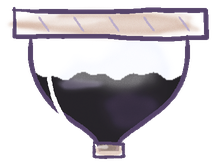
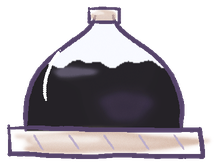
검정 잉크통을 바로 세움: 컬러 잉크통과 같은 모양(이음 고리 위·나무판 받침 아래)에 먹빛 나무, 검정 잉크는 바닥에 고이게. 모래시계에서는 이 병이 뒤집혀 위에 끼워진 것

diff --git a/tools/gen_cutscene.py b/tools/gen_cutscene.py
@@ -303,18 +303,17 @@ def half_bottle(kind):
     모래시계는 검정·컬러 두 잉크통이 목의 이음 고리에서 합쳐진 모습이고, 이야기에서는 따로 찾는다
     (동굴: 컬러, 봉인 장소: 검정). 잘라 쓰지 않고 같은 곡선·나무판·이음 고리로 그 반쪽만 그린다.
     양옆 기둥은 두 병을 이어 주는 틀이라 뺀다.
-    - 컬러: 이음 고리(위) → 둥근 유리 → 넓은 파스텔 나무판(아래), 바닥에 모인 빨강·초록·파랑
-    - 검정: 넓은 먹빛 나무판(위) → 유리 → 이음 고리(아래), 위 칸을 채운 검정 잉크"""
+    두 병은 모양이 같고, 모래시계에서는 검정 병이 거꾸로 뒤집혀 컬러 병 위에 끼워져 있다.
+    따로 놓일 땐 둘 다 바로 선다: 이음 고리(위) → 둥근 유리 → 넓은 나무판 받침(아래).
+    - 컬러: 파스텔 나무, 바닥에 모인 빨강·초록·파랑
+    - 검정: 먹빛 나무, 바닥에 고인 검정 잉크 (모래시계에서 나무판 쪽에 차 있던 그 잉크)"""
     bw, bh = 240, 320
     cx = bw / 2
     sh = Sheet(bw, bh, seed=41)
     sh.line = PLUM
     top, bottom = 46, 274
     neck = (top + bottom) / 2
-    if kind == 'black':
-        half = bezier((cx - 78, top), (cx - 86, top + 80), (cx - 14, neck - 30), (cx - 9, neck), 40)
-    else:
-        half = bezier((cx - 9, neck), (cx - 14, neck + 30), (cx - 86, bottom - 80), (cx - 78, bottom), 40)
+    half = bezier((cx - 9, neck), (cx - 14, neck + 30), (cx - 86, bottom - 80), (cx - 78, bottom), 40)
     mirror = [(2 * cx - x, y) for x, y in half]
     mask = pastel.poly_mask((bw, bh), half + mirror[::-1])
     dark_wood = (214, 186, 170)   # 검정 잉크통 쪽 나무 (split_bottle 과 같은 색)
@@ -322,14 +321,13 @@ def half_bottle(kind):
     glass = Sheet(bw, bh, seed=42)
     glass.wash(cx, neck, 80, 130, (236, 240, 255), alpha=150, layers=2)
     if kind == 'black':
-        surf = top + 40
+        surf = bottom - 66   # 바닥에 고인 잉크의 수면 (살짝 출렁)
         pool = [(x, surf + 3 * math.sin(x / 9) + 2 * math.sin(x / 4 + 1)) for x in range(0, bw + 1, 4)]
         ink = Sheet(bw, bh, seed=44)
         ink.fill_poly([(0, 0), (bw, 0), (bw, bh), (0, bh)], INK, 250)
-        ink.wash(cx + 22, surf + 34, 30, 22, (78, 62, 102), alpha=150, layers=3, blur=4)
-        ink.wash(cx - 30, surf + 8, 24, 6, (120, 112, 138), alpha=170, layers=2, blur=2)
-        glass.masked(ink, pastel.poly_mask((bw, bh), pool + [(bw, neck + 6), (0, neck + 6)]))
-        glass.wash(cx, top + 30, 60, 22, WHITE, alpha=130, layers=2, blur=4)
+        ink.wash(cx + 22, bottom - 24, 30, 18, (78, 62, 102), alpha=150, layers=3, blur=4)   # 보랏빛 먹 번짐
+        ink.wash(cx - 30, surf + 8, 24, 6, (120, 112, 138), alpha=170, layers=2, blur=2)    # 수면 윤기
+        glass.masked(ink, pastel.poly_mask((bw, bh), pool + [(bw, bh), (0, bh)]))
     else:
         glass.wash(cx - 22, bottom - 16, 34, 16, WATERCOLOR['red'], alpha=220, layers=3)
         glass.wash(cx + 20, bottom - 14, 32, 15, WATERCOLOR['blue'], alpha=220, layers=3)
@@ -338,16 +336,12 @@ def half_bottle(kind):
 
     sh.stroke(half, 4.4)
     sh.stroke(mirror, 4.4)
-    if kind == 'black':
-        sh.stroke(bezier((cx - 58, top + 22), (cx - 66, top + 60), (cx - 40, top + 92), (cx - 26, top + 104), 20),
-                  4, WHITE, 240, amp=0.6)
-    else:
-        sh.stroke(bezier((cx - 58, bottom - 30), (cx - 64, bottom - 50), (cx - 52, bottom - 70), (cx - 44, bottom - 80), 14),
-                  3, WHITE, 220, amp=0.6)
+    sh.stroke(bezier((cx - 58, bottom - 30), (cx - 64, bottom - 50), (cx - 52, bottom - 70), (cx - 44, bottom - 80), 14),
+              3, WHITE, 220, amp=0.6)
 
-    # 넓은 나무판: 검정은 위 뚜껑, 컬러는 아래 받침
-    y, d, wood = (top, -1, dark_wood) if kind == 'black' else (bottom, 1, PASTEL['peach'])
-    y0, y1 = (y - 26, y + 2) if d < 0 else (y - 2, y + 26)
+    # 넓은 나무판 받침 (검정은 먹빛 나무)
+    wood = dark_wood if kind == 'black' else PASTEL['peach']
+    y0, y1 = bottom - 2, bottom + 26
     sh.wash(cx, (y0 + y1) / 2, 94, 13, wood, alpha=240, layers=2, blur=2)
     sh.wash(cx - 40, (y0 + y1) / 2 - 3, 40, 5, WHITE, alpha=120, layers=1, blur=2)
     sh.stroke([(cx - 96, y0), (cx + 96, y0 + 1), (cx + 98, y1), (cx - 95, y1 - 1), (cx - 96, y0 - 2)], 4.2)
@@ -365,7 +359,7 @@ def half_bottle(kind):
 
 
 def black_bottle():
-    """검정 잉크통 (모래시계 위 칸). 봉인 장소에서 찾는다."""
+    """검정 잉크통 (모래시계 위 칸을 바로 세운 것). 봉인 장소에서 찾는다."""
     return half_bottle('black')
 
 
